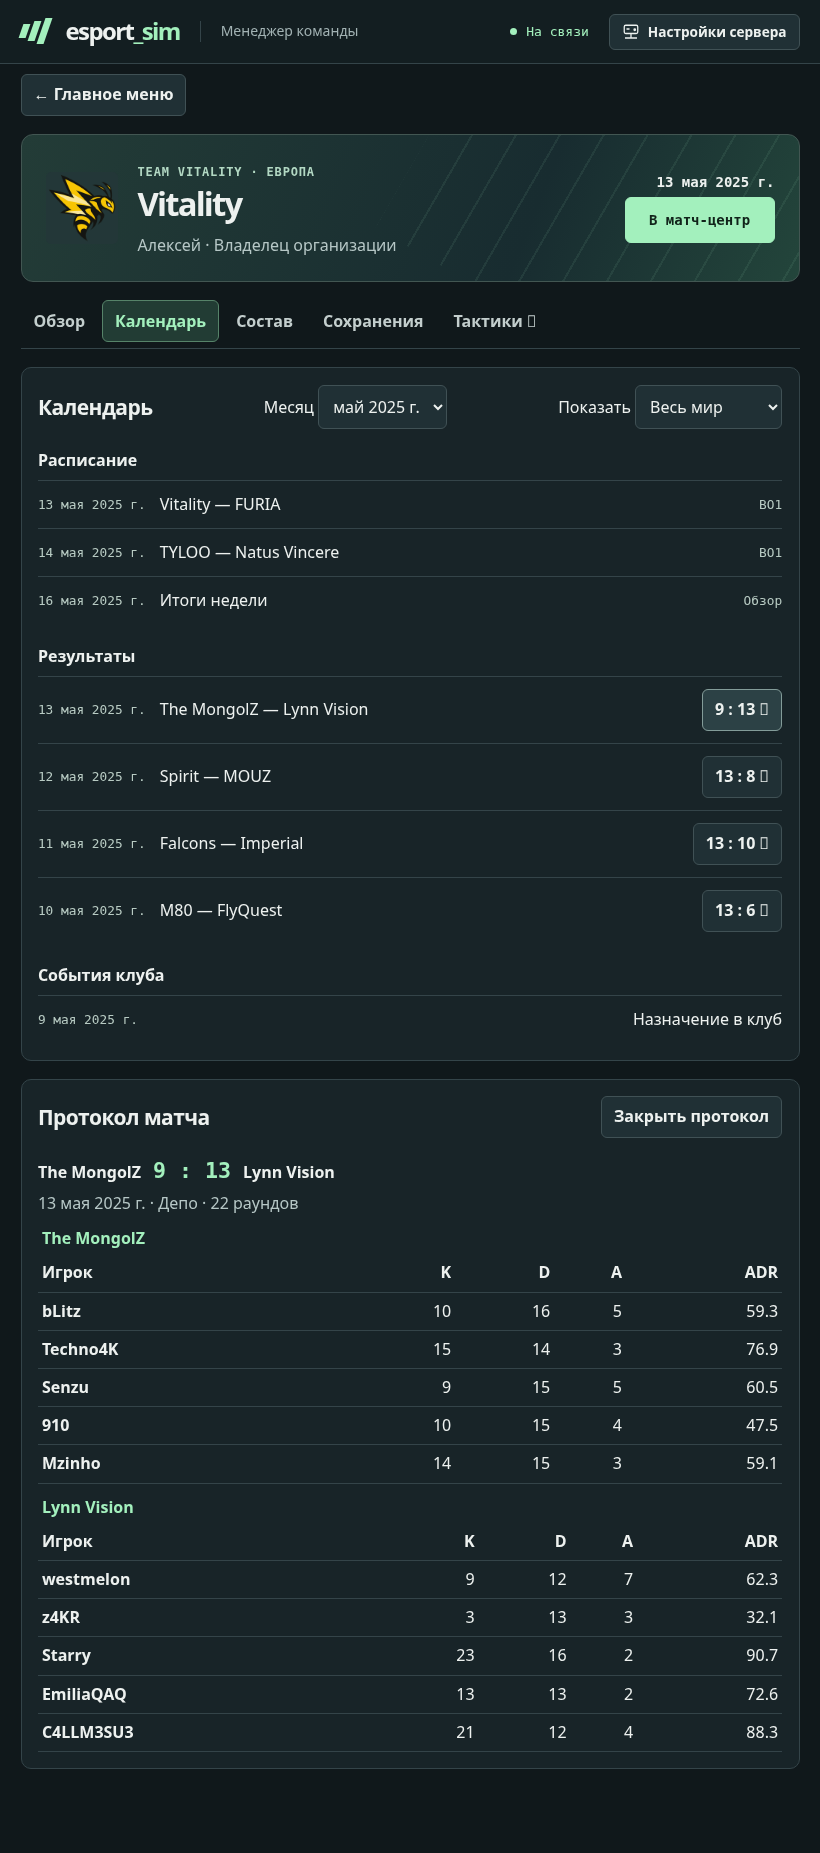
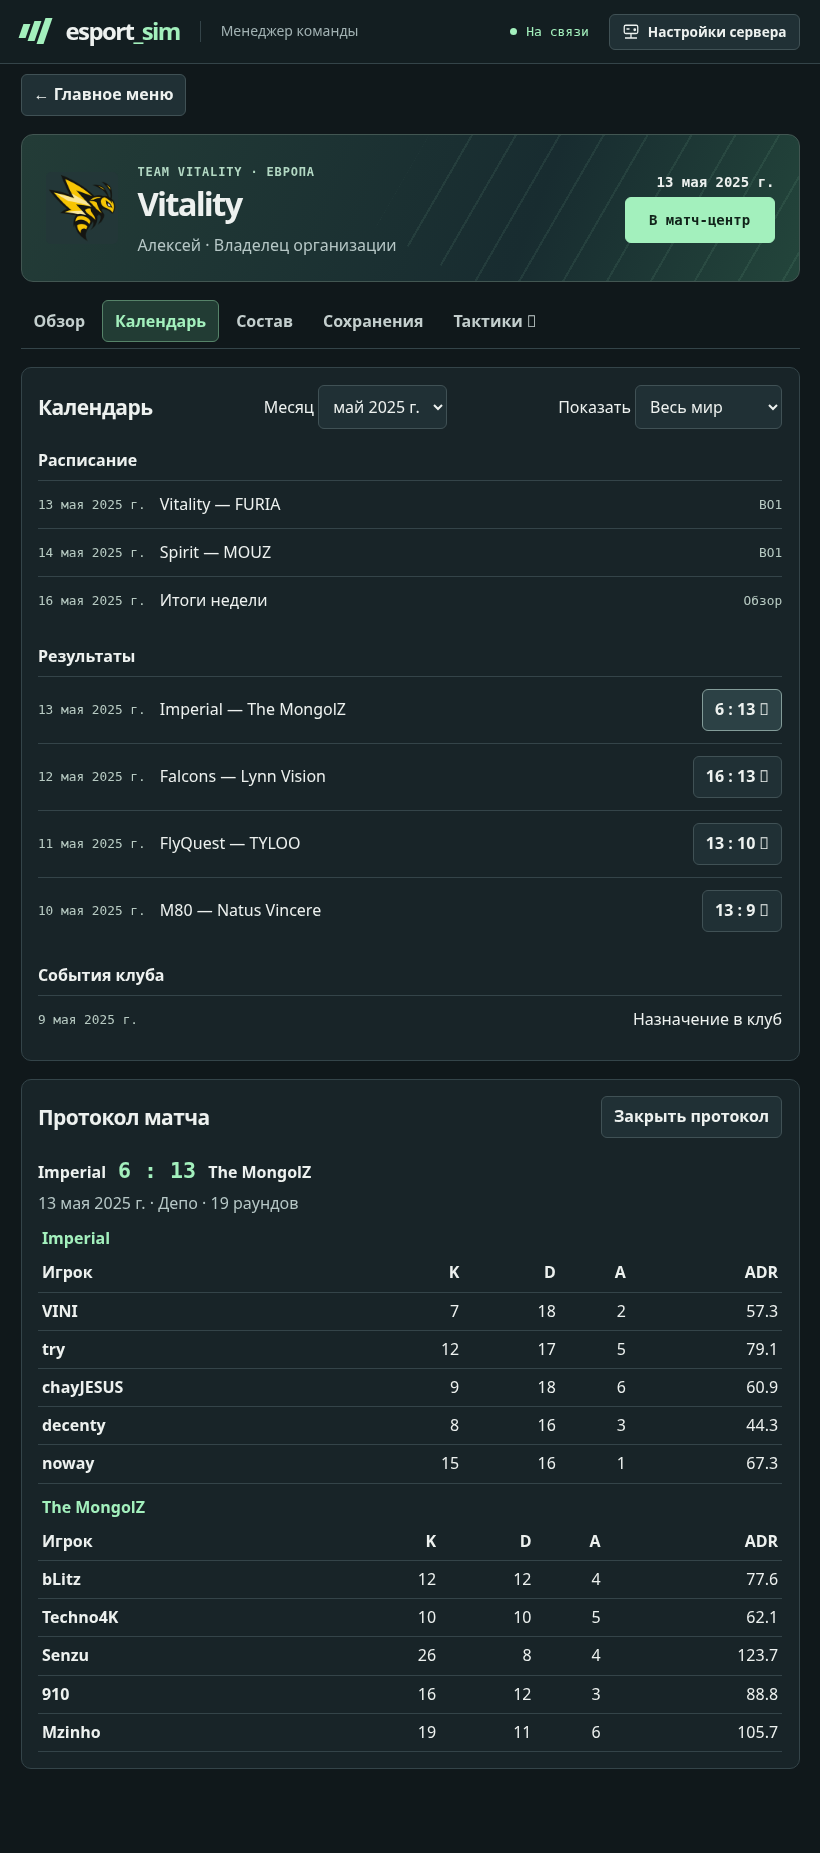
Чередовать соперников фоновых составов и проверить полный цикл календаря

diff --git a/tests/test_career.py b/tests/test_career.py
@@ -1,5 +1,6 @@
 import json
 import sqlite3
+from itertools import combinations
 from copy import deepcopy
 from uuid import uuid4
 
@@ -185,3 +186,20 @@ def test_first_profile_migration_is_atomic(tmp_path):
             == db.execute("SELECT * FROM active").fetchall()
         )
     db.close()
+
+
+def test_background_opponents_rotate_over_the_cycle():
+    pack = json.loads(database.STARTER.read_text(encoding="utf-8"))["package"]
+    team = next(iter(career.roster_index(pack)))
+    c = career.create(
+        pack, dict(team=team, name="Тренер", mode="manager", scope="full")
+    )
+    encountered = set()
+    for week in range(len(c["teams"]) - 1):
+        if week:
+            c["queue"].clear()
+            career.schedule(c)
+        games = [e for e in c["queue"] if e["kind"] == "match"]
+        assert len({t for e in games for t in e["teams"]}) == len(c["teams"])
+        encountered.update(tuple(sorted(e["teams"])) for e in games)
+    assert encountered == set(combinations(sorted(c["teams"]), 2))

diff --git a/backend/career.py b/backend/career.py
@@ -115,7 +115,12 @@ def schedule(c):
     offset = week % len(others)
     rotated = others[offset:] + others[:offset]
     pairs = [(c["team"], rotated.pop(0))]
-    pairs.extend(zip(rotated[::2], rotated[1::2]))
+    # Pair opposite positions around the circle. Adjacent pairing would
+    # repeatedly schedule the same neighbours for all background teams.
+    half = len(rotated) // 2
+    pairs.extend(
+        zip(rotated[:half], reversed(rotated[len(rotated) - half :]), strict=True)
+    )
     for i, (home, away) in enumerate(pairs):
         day = start + timedelta(days=4 if i == 0 else 1 + (i - 1) % 6)
         ident = f"{week:08d}-{i:04d}"

diff --git a/docs/CAREER_R33.md b/docs/CAREER_R33.md
@@ -8,7 +8,7 @@
 
 **Продолжить** обрабатывает выставочные BO1 на Депо до матча вашей команды или недельной сводки. Сервер показывает число завершённых фоновых встреч. В день собственного матча нажмите **В матч-центр**, назначьте тактику и запустите просмотр. Результат попадает в историю на последнем раунде. В календаре фильтр **Весь мир** показывает сыгранные и предстоящие встречи других команд. Выберите месяц, затем нажмите счёт, чтобы открыть протокол с K/D/A и ADR. Недельная сводка показывает фактическое число завершённых встреч.
 
-Пары определяются на неделю вперёд. Соперники клуба сменяются по кругу. Участники играют не более одного BO1 в неделю, при нечётном числе команд один состав пропускает встречу. Очередь упорядочена по игровой дате, при равенстве дат фоновые встречи идут перед собственной, затем действует стабильный идентификатор. Seed выведен из редакции базы, даты начала, номера встречи и пары. Подписчики, FPS и скорость просмотра на расчёт не влияют.
+Пары определяются на неделю вперёд. Соперники клуба сменяются по кругу. Фоновые составы образуют пары с противоположных концов вращающегося списка. Для чётного числа команд каждая пара встречается один раз за цикл. Участники играют не более одного BO1 в неделю, при нечётном числе команд один состав пропускает встречу. Очередь упорядочена по игровой дате, при равенстве дат фоновые встречи идут перед собственной, затем действует стабильный идентификатор. Seed выведен из редакции базы, даты начала, номера встречи и пары. Подписчики, FPS и скорость просмотра на расчёт не влияют.
 
 | Охват | Участники |
 |---|---|
@@ -36,6 +36,6 @@ Linux x86-64, AMD EPYC 9V74, квота 4 CPU, Python 3.12.14, правила `d
 
 | Охват | Команд | BO1 | Seed первой встречи | Время, с | RSS, МиБ |
 |---|---:|---:|---:|---:|---:|
-| Быстрый, Азия | 23 | 8 | 174977730 | 5,54 | 116 |
-| Стандартный | 64 | 21 | 1749718076 | 14,56 | 125 |
-| Полный | 220 | 73 | 1459322857 | 53,05 | 140 |
+| Быстрый, Азия | 23 | 8 | 523495344 | 6,5 | 117 |
+| Стандартный | 64 | 21 | 1248494528 | 21,58 | 125 |
+| Полный | 220 | 73 | 1129162523 | 68,76 | 135 |
